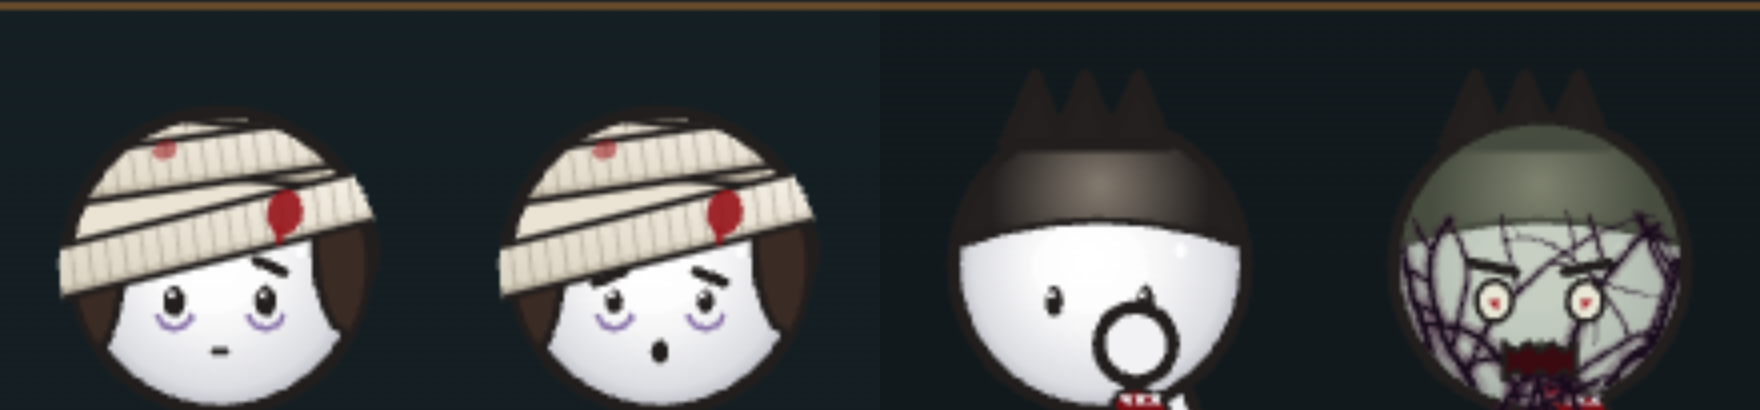
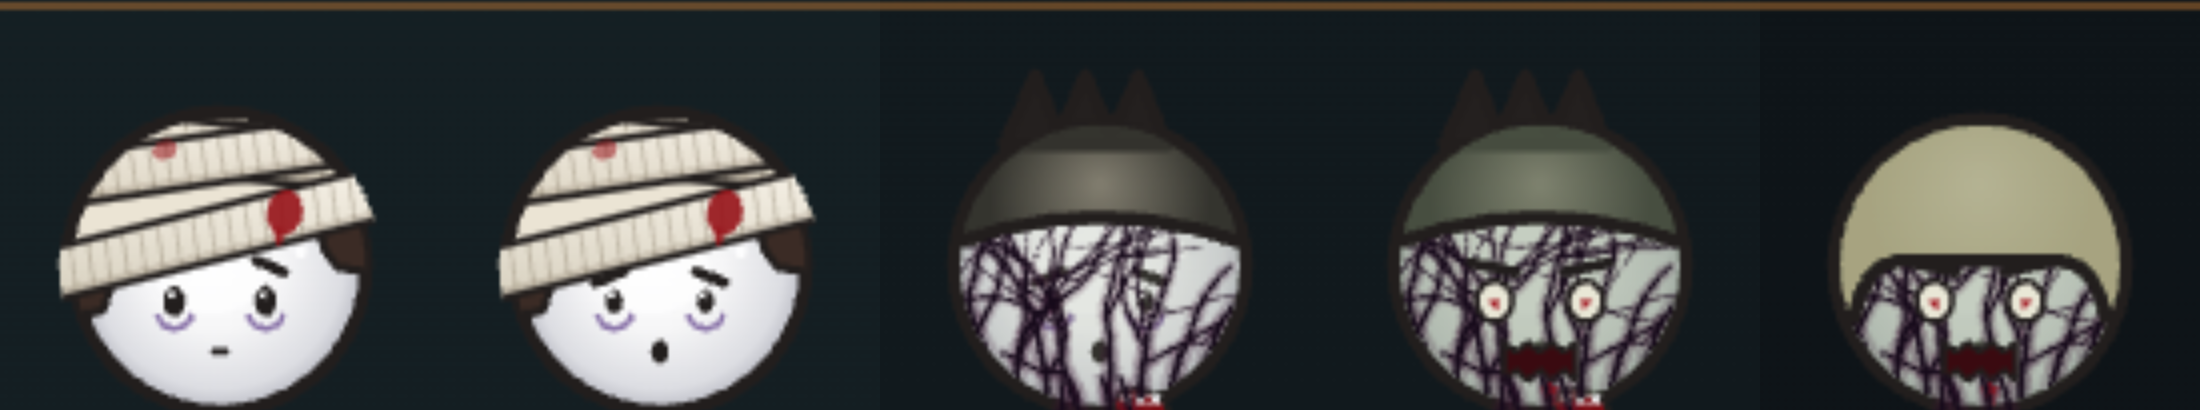
Hôpital : veines denses arrêtées sous les cheveux, mèches du héros remontées
Retour au réseau de veines de la 1re version ; clip peau = tête moins cheveux.
Mèches latérales du héros : bas à la hauteur des sourcils (côté gauche juste sous le bandage).

Claude-Session: https://claude.ai/code/session_0151hKPbvSgaLvTtgWaCHimf

diff --git a/studio/src/videos/hopital/persos.ts b/studio/src/videos/hopital/persos.ts
@@ -27,22 +27,21 @@ const NETS = new Map<string, Seg[]>();
 const rng = (seed: number) => () => { seed = (seed + 0x6d2b79f5) | 0; let t = Math.imul(seed ^ (seed >>> 15), 1 | seed); t = (t + Math.imul(t ^ (t >>> 7), 61 | t)) ^ t; return ((t ^ (t >>> 14)) >>> 0) / 4294967296; };
 const veinNet = (seed: number, neck: boolean): Seg[] => {
   const key = `${seed}${neck}`; if (NETS.has(key)) return NETS.get(key)!;
-  const r = rng(seed * 977 + 13), segs: Seg[] = [], L = neck ? 110 : 230;
-  const grow = (x: number, y: number, a: number, w: number, d: number, depth: number) => {
-    let c = (r() - 0.5) * 0.12;
-    for (let i = 0; i < 40 && segs.length < (neck ? 80 : 300); i++) {
-      const len = (10 + r() * 7) * (depth ? 0.8 : 1); c = Math.max(-0.16, Math.min(0.16, c + (r() - 0.5) * 0.1)); a += c + (r() - 0.5) * 0.35;   // courbure qui dérive : veines sinueuses
+  const r = rng(seed * 977 + 13), segs: Seg[] = [], L = neck ? 120 : 300;
+  const grow = (x: number, y: number, a: number, w: number, d: number, depth: number) => {   // réglages de la 1re version (validée)
+    for (let i = 0; i < 40 && segs.length < 700; i++) {
+      const len = 9 + r() * 9; a += (r() - 0.5) * 0.7;
       const nx = x + Math.cos(a) * len, ny = y + Math.sin(a) * len;
-      if (!neck && (Math.hypot(nx - cx, ny - hy) > R - 6 || ny < hy - 46)) return;   // reste sur le visage, sous les cheveux
+      if (!neck && Math.hypot(nx - cx, ny - hy) > R - 4) return;
       if (neck && ny < hy + R - 40) return;
-      segs.push({ x0: x, y0: y, x1: nx, y1: ny, t0: d / L, t1: (d + len) / L, w }); d += len; x = nx; y = ny; w = Math.max(1.6, w * 0.95);
-      if (r() < (depth ? 0.13 : 0.2) && depth < 3) grow(x, y, a + (r() < 0.5 ? -1 : 1) * (0.7 + r() * 0.6), w * 0.68, d, depth + 1);   // ramifications → capillaires
+      segs.push({ x0: x, y0: y, x1: nx, y1: ny, t0: d / L, t1: (d + len) / L, w }); d += len; x = nx; y = ny; w = Math.max(1.4, w * 0.93);
+      if (r() < 0.2 && depth < 4) grow(x, y, a + (r() < 0.5 ? -1 : 1) * (0.5 + r() * 0.5), w * 0.75, d, depth + 1);
       if (d > L) return;
     }
   };
   if (neck) for (const x0 of [-40, -14, 12, 36]) grow(cx + x0, top + 10, -Math.PI / 2 + (r() - 0.5) * 0.5, 5.5, 0, 1);
-  else for (const x0 of [-88, -54, -18, 18, 54, 90]) { const y0 = hy + Math.sqrt(R * R - x0 * x0) - 6;
-    grow(cx + x0, y0, -Math.PI / 2 + x0 / R * 0.7 + (r() - 0.5) * 0.4, 6.5, 0, 0); }
+  else for (const x0 of [-96, -70, -44, -18, 8, 34, 60, 88]) { const y0 = hy + Math.sqrt(R * R - x0 * x0) - 6;
+    grow(cx + x0, y0, -Math.PI / 2 + x0 / R * 0.55 + (r() - 0.5) * 0.4, 6, 0, 0); }
   NETS.set(key, segs); return segs;
 };
 const drawVeins = (g: CanvasRenderingContext2D, grow: number, seed: number, neck = false) => {
@@ -58,6 +57,19 @@ const drawVeins = (g: CanvasRenderingContext2D, grow: number, seed: number, neck
   g.restore();
 };
 
+// contour des cheveux vus de face (même géométrie que mur/people.ts) : sert à arrêter les veines sous les cheveux
+const hairPath = (g: CanvasRenderingContext2D, s: Person) => {
+  if (s.hair === "bald") return false;
+  g.beginPath();
+  if (s.hair === "bob" || s.hair === "fringe") {
+    const fr = hy - 4, side = hy + (s.hair === "bob" ? 44 : 22);
+    g.moveTo(cx - R, side); g.lineTo(cx - R, hy - R); g.lineTo(cx + R, hy - R); g.lineTo(cx + R, side);
+    g.lineTo(cx + R * 0.86, side); g.quadraticCurveTo(cx + R * 0.8, fr + 4, cx + R * 0.55, fr); g.lineTo(cx - R * 0.55, fr);
+    g.quadraticCurveTo(cx - R * 0.8, fr + 4, cx - R * 0.86, side); g.closePath();
+  } else { g.moveTo(cx - R, hy - 18); g.lineTo(cx - R, hy - R); g.lineTo(cx + R, hy - R); g.lineTo(cx + R, hy - 18); g.quadraticCurveTo(cx, hy - 62, cx - R, hy - 18); g.closePath(); }
+  return true;
+};
+
 export const drawPerso = (p: Pen, s: Perso) => {
   const g = p.g; g.save(); g.lineCap = "round"; g.lineJoin = "round";
   // ---- derrière le corps : pans de blouse (médecin) / jupe de blouse (patient) qui dépassent sous la taille
@@ -66,7 +78,11 @@ export const drawPerso = (p: Pen, s: Perso) => {
     g.beginPath(); g.moveTo(cx - tw / 2, top + 60); g.lineTo(cx + tw / 2, top + 60); g.lineTo(cx + w, b); g.lineTo(cx - w, b); g.closePath();
     g.fillStyle = s.jacket; g.fill(); stroke(g);
   }
-  drawPerson(p, { ...s, expr: s.infect && s.infect > 0.5 ? "shock" : s.expr });
+  const noTufts = s.bandage ? ({ g: new Proxy(g, {
+    get: (t, k) => k === "ellipse" ? (...a: number[]) => { if (a[2] === 22 && a[3] === 34) return; (t.ellipse as unknown as (...b: number[]) => void)(...a); }
+      : typeof (t as never)[k] === "function" ? ((t as never)[k] as (...b: unknown[]) => unknown).bind(t) : (t as never)[k],
+    set: (t, k, v) => { (t as unknown as Record<string | symbol, unknown>)[k] = v; return true; } }) } as unknown as Pen) : p;
+  drawPerson(noTufts, { ...s, expr: s.infect && s.infect > 0.5 ? "shock" : s.expr });
   const front = !s.back;
   // ---- détails de tenue
   if (s.role === "patient" && front) {                                   // blouse à petits motifs + bracelet d'hôpital
@@ -131,7 +147,7 @@ export const drawPerso = (p: Pen, s: Perso) => {
     // mèches sur les côtés, sous la bande (rien au-dessus des yeux)
     g.save(); g.beginPath(); g.arc(cx, hy, R - 1, 0, 7); g.clip();
     for (const sx of [-1, 1]) { g.beginPath(); g.moveTo(cx + sx * (R + 4), hy - 80); g.lineTo(cx + sx * R * 0.66, hy - 80);
-      g.quadraticCurveTo(cx + sx * R * 0.6, hy + 20, cx + sx * R * 0.78, hy + (sx < 0 ? 66 : 50)); g.lineTo(cx + sx * (R + 4), hy + 70); g.closePath();
+      g.quadraticCurveTo(cx + sx * R * 0.6, hy - 24, cx + sx * R * 0.8, hy + (sx < 0 ? 38 : 2)); g.lineTo(cx + sx * (R + 4), hy + (sx < 0 ? 42 : 6));   // bas des mèches = hauteur des sourcils g.closePath();
       g.fillStyle = s.hairColor; g.fill(); stroke(g, 7); }
     g.restore();
     const main = [hy - 17, hy + 27, hy - 81, hy - 37];                                    // bande basse [haut G, bas G, haut D, bas D]
@@ -159,7 +175,11 @@ export const drawPerso = (p: Pen, s: Perso) => {
   if (k > 0 && front) {
     g.save(); g.beginPath(); g.arc(cx, hy, R - 5, 0, 7); g.clip();
     g.fillStyle = `rgba(120,140,110,${0.42 * k})`; g.fillRect(cx - R, hy - R, 2 * R, 2 * R);
-    drawVeins(g, Math.min(1, k / 0.7), 1);
+    { const hasHair = hairPath(g, s);                                                    // peau = tête moins cheveux (evenodd)
+      if (hasHair) { g.arc(cx, hy, R - 5, 0, 7); g.clip("evenodd"); }
+      drawVeins(g, Math.min(1, k / 0.7), 1); }
+    g.restore(); g.save(); g.beginPath(); g.arc(cx, hy, R, 0, 7); g.clip();
+    if (hairPath(g, s)) { g.lineWidth = OL; g.strokeStyle = INK; g.stroke(); }             // contour des cheveux redessiné par-dessus
     g.restore();
     if (k > 0.5) {
       for (const sx of [-1, 1]) { g.beginPath(); g.ellipse(cx + sx * 38, hy + 30, 15, 17, 0, 0, 7); g.fillStyle = "#e9e7d6"; g.fill(); stroke(g, 5);
